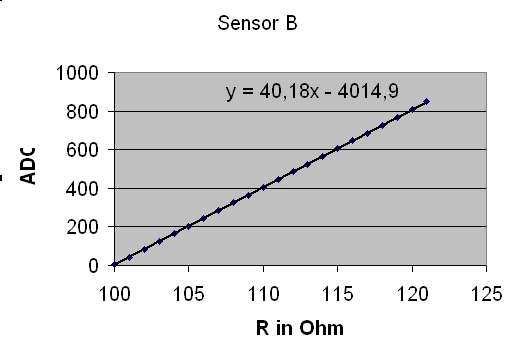
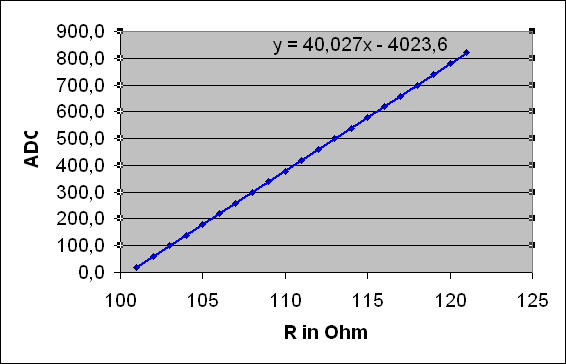
Donnerstag, Nachmittag bis Abend, ..., HIER KÖNNTE IHRE WERBUNG STEHEN!

diff --git a/Master_Schmatz.tex b/Master_Schmatz.tex
@@ -44,6 +44,8 @@
 
 \usepackage{array}
 
+\usepackage{subfigure} 
+
 % H"ohe und Breite des Textk"orpers etwas gr"osser definieren
 \setlength{\textheight}{225mm}
 \setlength{\textwidth}{1.05\textwidth}
@@ -469,28 +471,28 @@ Für die Kalibration der Temperaturmesselektronik wurden die Pt-100 Widerstände
 \begin{tabular}{ | c | c | }\hline
 {\bf R in Ohm} & {\bf ADC Wert}\\ \hline
 \hline
-100 & 4\\ \hline
-101 & 44\\ \hline
-102 & 84\\ \hline
-103 & 124\\ \hline
-104 & 164\\ \hline
-105 & 204\\ \hline
-106 & 244\\ \hline
-107 & 248\\ \hline
-108 & 324\\ \hline
-109 & 364\\ \hline
-110 & 405\\ \hline
-111 & 445\\ \hline
-112 & 485\\ \hline
-113 & 525\\ \hline
-114 & 565\\ \hline
-115 & 605\\ \hline
-116 & 646\\ \hline
-117 & 686\\ \hline
-118 & 726\\ \hline
-119 & 766\\ \hline
-120 & 807\\ \hline
-121 & 850\\ \hline
+100 & 0\\ \hline
+101 & 20\\ \hline
+102 & 59,5\\ \hline
+103 & 99\\ \hline
+104 & 139\\ \hline
+105 & 179\\ \hline
+106 & 219\\ \hline
+107 & 259\\ \hline
+108 & 299\\ \hline
+109 & 339\\ \hline
+110 & 379\\ \hline
+111 & 419,5\\ \hline
+112 & 460\\ \hline
+113 & 499\\ \hline
+114 & 539\\ \hline
+115 & 579\\ \hline
+116 & 619\\ \hline
+117 & 659\\ \hline
+118 & 700\\ \hline
+119 & 740\\ \hline
+120 & 780\\ \hline
+121 & 820\\ \hline
 122 & 857\\ \hline
 \end{tabular}
 \caption{Kalibrierung Messschaltung B}\label{TabB}
@@ -499,8 +501,12 @@ Für die Kalibration der Temperaturmesselektronik wurden die Pt-100 Widerstände
 \begin{figure}[htbp]
 \centering
 \includegraphics[width=100mm]{img/messb.png}
-\caption{Ausgleichsgerade Temperaturmessung B}\label{messb}
+\caption{Ausgleichsgerade Temperaturmessung B}\label{messa}
 \end{figure}
+
+Die gewonnen Formeln für Messschaltung A und B werden verwendet um aus den ADC-Werten die dazugehörigen Widerstandswerte zu berechnen. 
+
+
 
 \section{Messzelle}\thispagestyle{empty}
 
@@ -549,6 +555,7 @@ Da die Breite aller 3 Platten geringer ist als die Breite der Lade des Sonnensim
 \caption[Messbahn auf den Platten]{Messbahn auf den Platten}\label{bahn}
 \end{figure}
 Die Übergänge der Messbahn von einer Platte zur nächsten sind mit weißem Isolierband  der Breite 14mm zu überbrücken. Beschädigung der Messbahn, welche durch unsanftes Handling der Platten entstehen können, sind ebenfalls mit weißem Isolierband zu Überkleben.
+
 
 
 
@@ -606,6 +613,80 @@ Der ADC Wert des Kurschlussstromes wird in Ampere umgerechnet. Verwendet wird di
 \includegraphics[width=150mm]{img/tempm2.png}
 \caption[konstante Temperatur der Zelle]{konstante Temperatur der Zelle}\label{tm2}
 \end{figure}
+
+
+\section{Vermessung der Ausleuchtung einzelner Lampen}
+
+Die geringe Messzeit des Roboters, verglichen mit der mechanischen Methode, macht es möglich die Bestrahlungsstärkeverteilung der einzelnen Lampen in realistischer Zeit zu bestimmen.
+Veränderbar sind der Abstand zwischen Lampenfeld und Prüfebene. Die Leistungen der Lampen lassen sich einzeln steuern. 
+
+\begin{figure}
+    \subfigure[3D Ansicht]{\includegraphics[width=0.49\textwidth]{img/E1.png}}
+    \subfigure[Landkarte]{\includegraphics[width=0.49\textwidth]{img/E1a.png}}
+\caption{Lampe E1}
+\end{figure} 
+
+\begin{figure}
+    \subfigure[3D Ansicht]{\includegraphics[width=0.49\textwidth]{img/E2.png}}
+    \subfigure[Landkarte]{\includegraphics[width=0.49\textwidth]{img/E2a.png}}
+\caption{Lampe E2}
+\end{figure} 
+
+\begin{figure}
+    \subfigure[3D Ansicht]{\includegraphics[width=0.49\textwidth]{img/E3.png}}
+    \subfigure[Landkarte]{\includegraphics[width=0.49\textwidth]{img/E3a.png}}
+\caption{Lampe E3}
+\end{figure}
+
+\begin{figure}
+    \subfigure[3D Ansicht]{\includegraphics[width=0.49\textwidth]{img/E4.png}}
+    \subfigure[Landkarte]{\includegraphics[width=0.49\textwidth]{img/E4a.png}}
+\caption{Lampe E4}
+\end{figure} 
+
+\begin{figure}
+    \subfigure[3D Ansicht]{\includegraphics[width=0.49\textwidth]{img/E5.png}}
+    \subfigure[Landkarte]{\includegraphics[width=0.49\textwidth]{img/E5a.png}}
+\caption{Lampe E5}
+\end{figure} 
+
+\begin{figure}
+    \subfigure[3D Ansicht]{\includegraphics[width=0.49\textwidth]{img/E6.png}}
+    \subfigure[Landkarte]{\includegraphics[width=0.49\textwidth]{img/E6a.png}}
+\caption{Lampe E6}
+\end{figure} 
+
+\begin{figure}
+    \subfigure[3D Ansicht]{\includegraphics[width=0.49\textwidth]{img/E7.png}}
+    \subfigure[Landkarte]{\includegraphics[width=0.49\textwidth]{img/E7a.png}}
+\caption{Lampe E7}
+\end{figure} 
+
+\begin{figure}
+    \subfigure[3D Ansicht]{\includegraphics[width=0.49\textwidth]{img/E8.png}}
+    \subfigure[Landkarte]{\includegraphics[width=0.49\textwidth]{img/E8a.png}}
+\caption{Lampe E8}
+\end{figure} 
+
+\begin{figure}
+    \subfigure[3D Ansicht]{\includegraphics[width=0.49\textwidth]{img/E9.png}}
+    \subfigure[Landkarte]{\includegraphics[width=0.49\textwidth]{img/E9a.png}}
+\caption{Lampe E9}
+\end{figure} 
+
+\begin{figure}
+    \subfigure[3D Ansicht]{\includegraphics[width=0.49\textwidth]{img/E10.png}}
+    \subfigure[Landkarte]{\includegraphics[width=0.49\textwidth]{img/E10a.png}}
+\caption{Lampe E10}
+\end{figure} 
+
+
+
+
+
+ 
+
+
 
 
 
